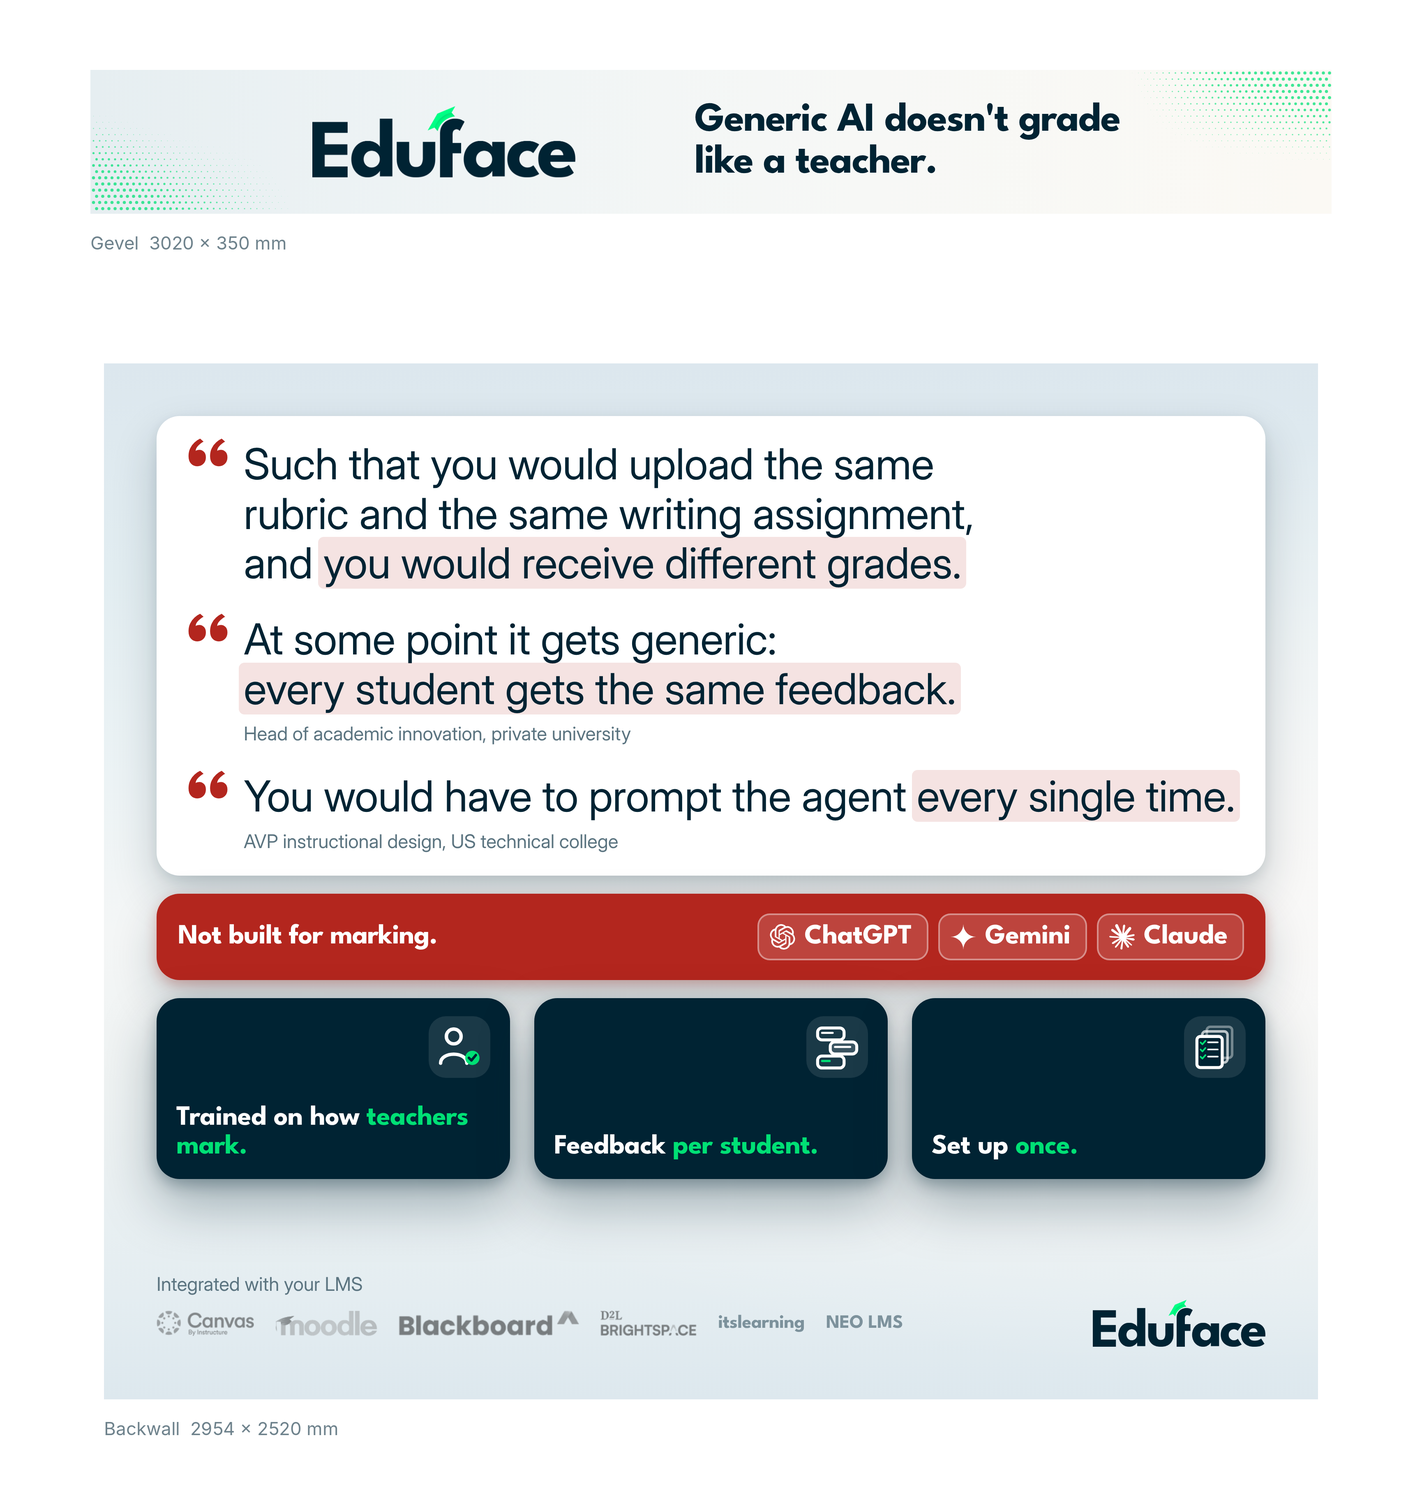
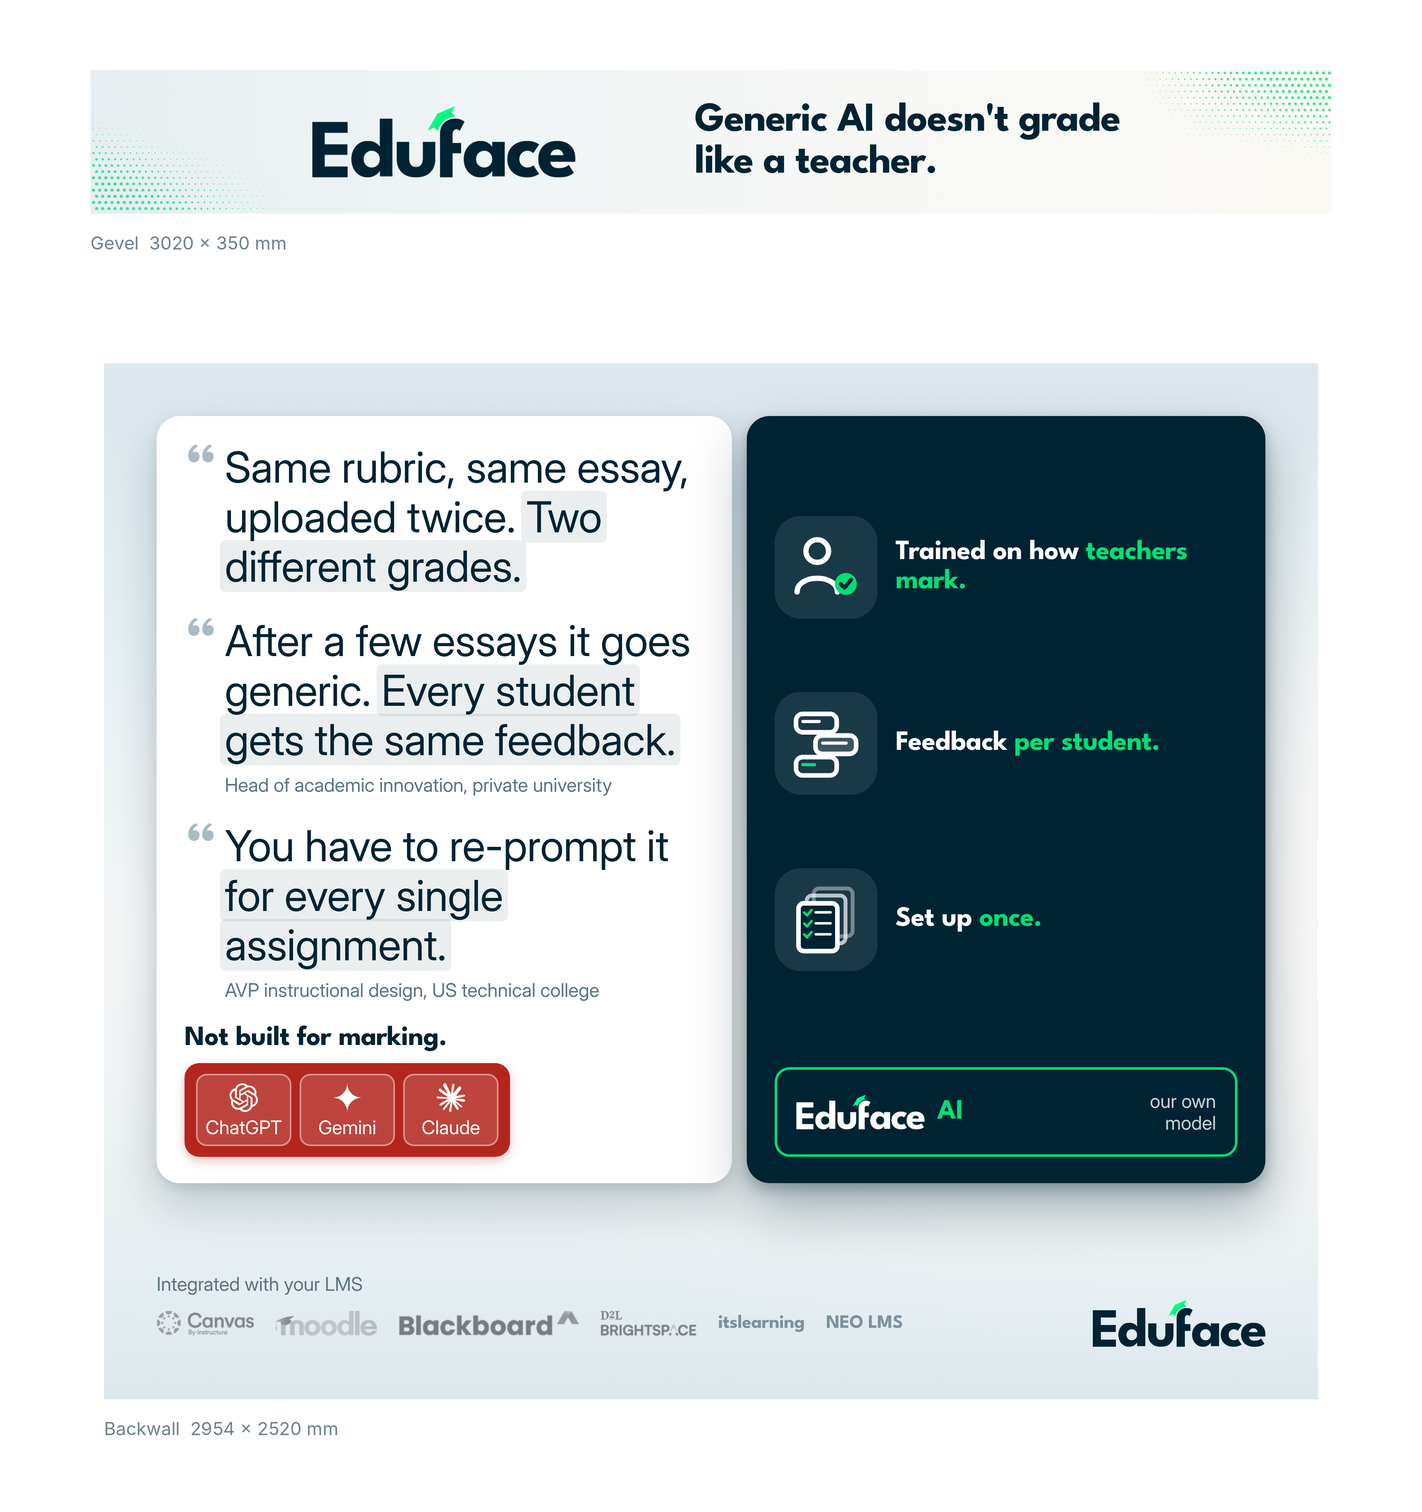
Backwall: links quotes, rechts Eduface, rood beperkt tot kleine tool-box, Eduface AI-strip
Claude-Session: https://claude.ai/code/session_011t24oRcD5DFuXzKigdVhtb

Changed region(s): [[0.0936, 0.248, 0.9052, 0.8059]]

diff --git a/creatives/beurs-backwall/backwall.html b/creatives/beurs-backwall/backwall.html
@@ -4,7 +4,8 @@
 <meta charset="utf-8">
 <title>Beurs backwall</title>
 <style>
-  /* Canvas: 1 px = 1 mm. Wand is 2954 x 2520 mm. Eerst focus op de quotes; de rest staat compact eronder. */
+  /* Canvas: 1 px = 1 mm. Wand is 2954 x 2520 mm. De kop staat op de gevel (facade.html), de wand heeft alleen quotes en Eduface.
+     Lettersysteem, drie maten: L 104 Inter (quotes) / M 68 League Spartan (koppen) / S 46 Inter (bronnen, labels). */
   @font-face { font-family: "League Spartan"; font-weight: 700; src: url("../../Design/Merk/fonts/LeagueSpartan-Bold.ttf"); }
   @font-face { font-family: "Inter"; font-weight: 400; src: url("../../Design/Merk/fonts/Inter-Regular.ttf"); }
   :root { --w: 2954px; --h: 2520px; --navy: #002333; --gd: #007b54; --g: #00e075; --i7: #2c4a57; --i5: #5b7480; --i3: #a9bcc4; --i2: #cdd9de; --i50: #f3f7f8; --red: #b3261e; }
@@ -16,37 +17,38 @@
       radial-gradient(ellipse 80% 45% at 90% 52%, #f9f8f7 0%, rgba(249,248,247,0) 100%),
       linear-gradient(180deg, #dce7ee 0%, #e2edf1 20%, #ecf3f5 40%, #f4f6f6 55%, #eff3f3 70%, #e4edf1 90%, #dde8ee 100%);
   }
-  .abs { position: absolute; }
   .logo { position: absolute; right: 128px; bottom: 128px; width: 420px; height: auto; }
 
-  .h1 { position: absolute; left: 128px; top: 90px; font: 700 152px/.98 "League Spartan"; letter-spacing: -.025em; color: var(--navy); white-space: nowrap; }
-  .h1 em { font-style: normal; color: var(--gd); }
+  .row { position: absolute; left: 128px; top: 128px; width: 2698px; display: flex; gap: 36px; align-items: stretch; }
 
-  /* ---- QUOTES: een kaart per bron. Links het tool, rechts de quote(s) groot. ---- */
-  .stack { position: absolute; left: 128px; top: 128px; width: 2698px; display: flex; flex-direction: column; gap: 44px; }
-  .advrow { display: flex; gap: 59px; }
-  .qg { position: relative; width: 100%; background: #fff; border-radius: 56px; padding: 56px 64px;
-    box-shadow: 0 10px 28px rgba(0,35,51,.10), 0 50px 110px rgba(0,35,51,.20); }
-  .qs { display: flex; flex-direction: column; gap: 64px; }
-  .qone { display: flex; gap: 28px; align-items: flex-start; }
-  .qm { font: 700 230px/.78 "League Spartan"; color: var(--red); width: 120px; flex: none; margin-top: 10px; }
-  .qt { font: 400 104px/1.16 Inter; color: var(--navy); letter-spacing: -.005em; text-wrap: balance; }
-  .qt mark { white-space: nowrap; background: rgba(179,38,30,.13); color: inherit; padding: 0 12px; margin: 0 -12px; border-radius: 14px; -webkit-box-decoration-break: clone; box-decoration-break: clone; }
+  /* links: quotes. Rood alleen in het kleine vlak rond de drie tools. */
+  .q { width: 1400px; background: #fff; border-radius: 56px; padding: 64px 68px 64px; display: flex; flex-direction: column; justify-content: space-between; gap: 56px;
+       box-shadow: 0 10px 28px rgba(0,35,51,.10), 0 50px 110px rgba(0,35,51,.20); }
+  .qs { display: flex; flex-direction: column; gap: 60px; }
+  .qone { display: flex; gap: 22px; align-items: flex-start; }
+  .qm { font: 700 150px/.8 "League Spartan"; color: var(--i3); width: 76px; flex: none; margin-top: 10px; }
+  .qt { font: 400 104px/1.16 Inter; color: var(--navy); letter-spacing: -.005em; }
+  .qt mark { background: rgba(0,35,51,.08); color: inherit; padding: 0 12px; margin: 0 -12px; border-radius: 14px; -webkit-box-decoration-break: clone; box-decoration-break: clone; }
   .who { font: 400 46px/1.2 Inter; color: var(--i5); margin-top: 22px; }
 
-  /* ---- rest, compact ---- */
-  .band { position: relative; width: 100%; height: 210px; border-radius: 56px; background: var(--red); padding: 0 52px; display: flex; align-items: center; justify-content: space-between;
-    box-shadow: 0 12px 30px rgba(179,38,30,.28), 0 50px 110px rgba(0,35,51,.22); }
-  .band .t { font: 700 68px/1 "League Spartan"; letter-spacing: -.015em; color: #fff; }
-  .rl { display: flex; gap: 24px; }
-  .rl div { height: 114px; padding: 0 40px 0 30px; border-radius: 30px; background: rgba(255,255,255,.14); box-shadow: inset 0 0 0 4px rgba(255,255,255,.4); display: flex; align-items: center; gap: 22px; font: 700 68px/1 "League Spartan"; letter-spacing: -.01em; color: #fff; white-space: nowrap; }
-  .rl img { width: 62px; height: 62px; filter: brightness(0) invert(1); }
+  .tools .lab { font: 700 68px/1 "League Spartan"; letter-spacing: -.01em; color: var(--navy); margin-bottom: 26px; }
+  .redbox { display: inline-flex; gap: 20px; background: var(--red); border-radius: 36px; padding: 26px 28px; box-shadow: 0 10px 24px rgba(179,38,30,.28); }
+  .tl { width: 232px; height: 176px; border-radius: 26px; background: rgba(255,255,255,.14); box-shadow: inset 0 0 0 4px rgba(255,255,255,.42);
+        display: flex; flex-direction: column; align-items: center; justify-content: center; gap: 14px; font: 400 46px/1 Inter; color: #fff; }
+  .tl img { width: 70px; height: 70px; filter: brightness(0) invert(1); }
 
-  .adv { position: relative; flex: none; width: 860px; height: 440px; padding: 44px 48px; border-radius: 56px; background: var(--navy); color: #fff;
-    box-shadow: 0 14px 34px rgba(0,35,51,.28), 0 60px 130px rgba(0,35,51,.34); display: flex; flex-direction: column; justify-content: space-between; }
-  .adv .it { align-self: flex-end; width: 150px; height: 150px; border-radius: 42px; background: rgba(255,255,255,.1); display: flex; align-items: center; justify-content: center; }
-  .adv .a1 { font: 700 68px/1.02 "League Spartan"; letter-spacing: -.01em; }
-  .adv .a1 span { color: var(--g); }
+  /* rechts: Eduface */
+  .e { width: 1262px; background: var(--navy); color: #fff; border-radius: 56px; padding: 64px 68px; display: flex; flex-direction: column; justify-content: space-between; gap: 56px;
+       box-shadow: 0 14px 34px rgba(0,35,51,.28), 0 60px 130px rgba(0,35,51,.34); }
+  .es { flex: 1; display: flex; flex-direction: column; justify-content: space-evenly; }
+  .er { display: flex; align-items: center; gap: 44px; }
+  .it { flex: none; width: 250px; height: 250px; border-radius: 64px; background: rgba(255,255,255,.1); display: flex; align-items: center; justify-content: center; }
+  .eh { font: 700 68px/1.04 "League Spartan"; letter-spacing: -.01em; }
+  .eh span { color: var(--g); }
+  .own { height: 218px; border-radius: 36px; box-shadow: inset 0 0 0 6px var(--g); display: flex; align-items: center; gap: 30px; padding: 0 52px; }
+  .own img { height: 86px; width: auto; }
+  .own .ai { font: 700 68px/1 "League Spartan"; color: var(--g); letter-spacing: -.01em; }
+  .own .t2 { margin-left: auto; font: 400 46px/1.15 Inter; color: rgba(255,255,255,.8); text-align: right; }
 
   .lms { position: absolute; left: 128px; top: 2278px; height: 114px; display: flex; align-items: center; gap: 52px; }
   .lms img { height: 62px; width: auto; filter: grayscale(1) contrast(.9); opacity: .5; }
@@ -63,30 +65,27 @@
 <script>
 const N='#002333', G='#00e075', W='#fff';
 const L=(f)=>`assets/logos/${f}.svg`;
-const sv=(inner,s=124)=>`<svg width="${s}" height="${s}" viewBox="0 0 400 400">${inner}</svg>`;
+const sv=(inner,s=172)=>`<svg width="${s}" height="${s}" viewBox="0 0 400 400">${inner}</svg>`;
 
-/* Quotes: bron Eduface case study 25-11-2026, licht bewerkt voor correct Engels. Functie anoniem. */
-const platformIc=`<svg width="66" height="66" viewBox="0 0 46 46"><rect x="4" y="4" width="16" height="16" rx="4" fill="#2c4a57"/><rect x="26" y="4" width="16" height="16" rx="4" fill="#2c4a57" opacity=".55"/><rect x="4" y="26" width="16" height="16" rx="4" fill="#2c4a57" opacity=".55"/><rect x="26" y="26" width="16" height="16" rx="4" fill="#2c4a57"/></svg>`;
-const q=(t,w)=>`<div class="qone"><div class="qm">\u201C</div><div><div class="qt">${t}</div>${w?`<div class="who">${w}</div>`:''}</div></div>`;
+/* Quotes: formulering van Dante, 25-11-2026. Bron van quote 2 en 3 staat in de case study; de herschreven zinnen zijn nog niet aan die personen voorgelegd (V15). Quote 1: bron onbekend (V17). */
+const q=(t,w)=>`<div class="qone"><div class="qm">“</div><div><div class="qt">${t}</div>${w?`<div class="who">${w}</div>`:''}</div></div>`;
 const R1='Head of academic innovation, private university', R2='AVP instructional design, US technical college';
-const A=`<div class="qg"><div class="qs">`+
-  q('Such that you would upload the same rubric and the same writing assignment, and <mark>you would receive different grades.</mark>', '')+
-  q('At some point it gets generic: <mark>every student gets the same feedback.</mark>', R1)+
-  q('You would have to prompt the agent <mark>every single time.</mark>', R2)+`</div></div>`;
-const B='';
+const tool=(img,name)=>`<div class="tl"><img src="${L(img)}">${name}</div>`;
+const left=`<div class="q"><div class="qs">`+
+  q('Same rubric, same essay, uploaded twice. <mark>Two different grades.</mark>','')+
+  q('After a few essays it goes generic. <mark>Every student gets the same feedback.</mark>',R1)+
+  q('You have to re-prompt it <mark>for every single assignment.</mark>',R2)+
+  `</div><div class="tools"><div class="lab">Not built for marking.</div><div class="redbox">${tool('openai','ChatGPT')}${tool('googlegemini','Gemini')}${tool('claude','Claude')}</div></div></div>`;
 
-/* rest */
-const band=`<div class="band"><div class="t">Not built for marking.</div><div class="rl"><div><img src="${L('openai')}">ChatGPT</div><div><img src="${L('googlegemini')}">Gemini</div><div><img src="${L('claude')}">Claude</div></div></div>`;
 const icTeacher=sv(`<circle cx="150" cy="108" r="64" fill="none" stroke="${W}" stroke-width="30"/><path d="M36,340 C36,236 264,236 264,340" fill="none" stroke="${W}" stroke-width="30" stroke-linecap="round"/><circle cx="312" cy="294" r="62" fill="${G}"/><polyline points="282,294 304,316 342,270" fill="none" stroke="${N}" stroke-width="22" stroke-linecap="round" stroke-linejoin="round"/>`);
 const icBubbles=sv(`<rect x="30" y="34" width="230" height="104" rx="38" fill="none" stroke="${W}" stroke-width="26"/><rect x="60" y="68" width="110" height="18" rx="9" fill="${W}"/><rect x="140" y="156" width="230" height="104" rx="38" fill="rgba(255,255,255,.14)" stroke="${W}" stroke-width="26"/><rect x="172" y="190" width="150" height="18" rx="9" fill="${W}"/><rect x="30" y="278" width="230" height="104" rx="38" fill="none" stroke="${W}" stroke-width="26"/><rect x="60" y="312" width="84" height="18" rx="9" fill="${G}"/>`);
 const icSheets=sv(`<rect x="130" y="24" width="220" height="270" rx="30" fill="none" stroke="${W}" stroke-width="22" opacity=".4"/><rect x="90" y="64" width="220" height="270" rx="30" fill="none" stroke="${W}" stroke-width="22" opacity=".7"/><rect x="44" y="108" width="220" height="270" rx="30" fill="${N}" stroke="${W}" stroke-width="26"/>${[160,222,284].map(y=>`<polyline points="76,${y} 92,${y+16} 118,${y-14}" fill="none" stroke="${G}" stroke-width="14" stroke-linecap="round" stroke-linejoin="round"/><rect x="134" y="${y-8}" width="98" height="14" rx="7" fill="${W}"/>`).join('')}`);
-const X=[128,1047,1966];
-const ADV=[{ic:icTeacher,h:'Trained on how <span>teachers mark.</span>'},{ic:icBubbles,h:'Feedback <span>per student.</span>'},{ic:icSheets,h:'Set up <span>once.</span>'}];
-const adv=ADV.map((r,i)=>`<div class="adv"><div class="it">${r.ic.replace('width="124" height="124"','width="112" height="112"')}</div><div class="a1">${r.h}</div></div>`).join('');
-const lms=`<div class="lms"><div class="lab">Integrated with your LMS</div><img src="assets/logos/lms-canvas.png"><img src="assets/logos/lms-moodle.png"><img src="assets/logos/lms-blackboard.png"><img src="assets/logos/lms-brightspace.png"><div class="wm">itslearning</div><div class="wm">NEO LMS</div></div>`;
+const ER=[{ic:icTeacher,h:'Trained on how <span>teachers mark.</span>'},{ic:icBubbles,h:'Feedback <span>per student.</span>'},{ic:icSheets,h:'Set up <span>once.</span>'}];
+const right=`<div class="e"><div class="es">`+ER.map(r=>`<div class="er"><div class="it">${r.ic}</div><div class="eh">${r.h}</div></div>`).join('')+
+  `</div><div class="own"><img src="assets/logos/eduface-white.png"><div class="ai">AI</div><div class="t2">our own<br>model</div></div></div>`;
 
-document.getElementById('layer-content').innerHTML =
- `<div class="stack">${A}${B}${band}<div class="advrow">${adv}</div></div>${lms}`;
+const lms=`<div class="lms"><div class="lab">Integrated with your LMS</div><img src="assets/logos/lms-canvas.png"><img src="assets/logos/lms-moodle.png"><img src="assets/logos/lms-blackboard.png"><img src="assets/logos/lms-brightspace.png"><div class="wm">itslearning</div><div class="wm">NEO LMS</div></div>`;
+document.getElementById('layer-content').innerHTML = `<div class="row">${left}${right}</div>${lms}`;
 </script>
 </body>
 </html>

diff --git a/creatives/beurs-backwall/backwall-quotes-boven-2026-11-25.html b/creatives/beurs-backwall/backwall-quotes-boven-2026-11-25.html
@@ -1,0 +1,92 @@
+<!doctype html>
+<html lang="en">
+<head>
+<meta charset="utf-8">
+<title>Beurs backwall</title>
+<style>
+  /* Canvas: 1 px = 1 mm. Wand is 2954 x 2520 mm. Eerst focus op de quotes; de rest staat compact eronder. */
+  @font-face { font-family: "League Spartan"; font-weight: 700; src: url("../../Design/Merk/fonts/LeagueSpartan-Bold.ttf"); }
+  @font-face { font-family: "Inter"; font-weight: 400; src: url("../../Design/Merk/fonts/Inter-Regular.ttf"); }
+  :root { --w: 2954px; --h: 2520px; --navy: #002333; --gd: #007b54; --g: #00e075; --i7: #2c4a57; --i5: #5b7480; --i3: #a9bcc4; --i2: #cdd9de; --i50: #f3f7f8; --red: #b3261e; }
+  * { margin: 0; box-sizing: border-box; }
+  html, body { width: var(--w); height: var(--h); }
+  .wall {
+    position: relative; width: var(--w); height: var(--h); overflow: hidden; color: var(--navy);
+    background:
+      radial-gradient(ellipse 80% 45% at 90% 52%, #f9f8f7 0%, rgba(249,248,247,0) 100%),
+      linear-gradient(180deg, #dce7ee 0%, #e2edf1 20%, #ecf3f5 40%, #f4f6f6 55%, #eff3f3 70%, #e4edf1 90%, #dde8ee 100%);
+  }
+  .abs { position: absolute; }
+  .logo { position: absolute; right: 128px; bottom: 128px; width: 420px; height: auto; }
+
+  .h1 { position: absolute; left: 128px; top: 90px; font: 700 152px/.98 "League Spartan"; letter-spacing: -.025em; color: var(--navy); white-space: nowrap; }
+  .h1 em { font-style: normal; color: var(--gd); }
+
+  /* ---- QUOTES: een kaart per bron. Links het tool, rechts de quote(s) groot. ---- */
+  .stack { position: absolute; left: 128px; top: 128px; width: 2698px; display: flex; flex-direction: column; gap: 44px; }
+  .advrow { display: flex; gap: 59px; }
+  .qg { position: relative; width: 100%; background: #fff; border-radius: 56px; padding: 56px 64px;
+    box-shadow: 0 10px 28px rgba(0,35,51,.10), 0 50px 110px rgba(0,35,51,.20); }
+  .qs { display: flex; flex-direction: column; gap: 64px; }
+  .qone { display: flex; gap: 28px; align-items: flex-start; }
+  .qm { font: 700 230px/.78 "League Spartan"; color: var(--red); width: 120px; flex: none; margin-top: 10px; }
+  .qt { font: 400 104px/1.16 Inter; color: var(--navy); letter-spacing: -.005em; text-wrap: balance; }
+  .qt mark { white-space: nowrap; background: rgba(179,38,30,.13); color: inherit; padding: 0 12px; margin: 0 -12px; border-radius: 14px; -webkit-box-decoration-break: clone; box-decoration-break: clone; }
+  .who { font: 400 46px/1.2 Inter; color: var(--i5); margin-top: 22px; }
+
+  /* ---- rest, compact ---- */
+  .band { position: relative; width: 100%; height: 210px; border-radius: 56px; background: var(--red); padding: 0 52px; display: flex; align-items: center; justify-content: space-between;
+    box-shadow: 0 12px 30px rgba(179,38,30,.28), 0 50px 110px rgba(0,35,51,.22); }
+  .band .t { font: 700 68px/1 "League Spartan"; letter-spacing: -.015em; color: #fff; }
+  .rl { display: flex; gap: 24px; }
+  .rl div { height: 114px; padding: 0 40px 0 30px; border-radius: 30px; background: rgba(255,255,255,.14); box-shadow: inset 0 0 0 4px rgba(255,255,255,.4); display: flex; align-items: center; gap: 22px; font: 700 68px/1 "League Spartan"; letter-spacing: -.01em; color: #fff; white-space: nowrap; }
+  .rl img { width: 62px; height: 62px; filter: brightness(0) invert(1); }
+
+  .adv { position: relative; flex: none; width: 860px; height: 440px; padding: 44px 48px; border-radius: 56px; background: var(--navy); color: #fff;
+    box-shadow: 0 14px 34px rgba(0,35,51,.28), 0 60px 130px rgba(0,35,51,.34); display: flex; flex-direction: column; justify-content: space-between; }
+  .adv .it { align-self: flex-end; width: 150px; height: 150px; border-radius: 42px; background: rgba(255,255,255,.1); display: flex; align-items: center; justify-content: center; }
+  .adv .a1 { font: 700 68px/1.02 "League Spartan"; letter-spacing: -.01em; }
+  .adv .a1 span { color: var(--g); }
+
+  .lms { position: absolute; left: 128px; top: 2278px; height: 114px; display: flex; align-items: center; gap: 52px; }
+  .lms img { height: 62px; width: auto; filter: grayscale(1) contrast(.9); opacity: .5; }
+  .lms .wm { font: 700 46px/1 "League Spartan"; letter-spacing: -.01em; color: var(--i5); opacity: .75; white-space: nowrap; }
+  .lms .lab { position: absolute; left: 0; top: -62px; font: 400 46px/1 Inter; color: var(--i5); white-space: nowrap; }
+</style>
+</head>
+<body>
+  <div class="wall" id="wall">
+    <div id="layer-content"></div>
+    <img class="logo" src="../../Design/Merk/logos/logo_navy.png" alt="Eduface">
+  </div>
+
+<script>
+const N='#002333', G='#00e075', W='#fff';
+const L=(f)=>`assets/logos/${f}.svg`;
+const sv=(inner,s=124)=>`<svg width="${s}" height="${s}" viewBox="0 0 400 400">${inner}</svg>`;
+
+/* Quotes: bron Eduface case study 25-11-2026, licht bewerkt voor correct Engels. Functie anoniem. */
+const platformIc=`<svg width="66" height="66" viewBox="0 0 46 46"><rect x="4" y="4" width="16" height="16" rx="4" fill="#2c4a57"/><rect x="26" y="4" width="16" height="16" rx="4" fill="#2c4a57" opacity=".55"/><rect x="4" y="26" width="16" height="16" rx="4" fill="#2c4a57" opacity=".55"/><rect x="26" y="26" width="16" height="16" rx="4" fill="#2c4a57"/></svg>`;
+const q=(t,w)=>`<div class="qone"><div class="qm">\u201C</div><div><div class="qt">${t}</div>${w?`<div class="who">${w}</div>`:''}</div></div>`;
+const R1='Head of academic innovation, private university', R2='AVP instructional design, US technical college';
+const A=`<div class="qg"><div class="qs">`+
+  q('Such that you would upload the same rubric and the same writing assignment, and <mark>you would receive different grades.</mark>', '')+
+  q('At some point it gets generic: <mark>every student gets the same feedback.</mark>', R1)+
+  q('You would have to prompt the agent <mark>every single time.</mark>', R2)+`</div></div>`;
+const B='';
+
+/* rest */
+const band=`<div class="band"><div class="t">Not built for marking.</div><div class="rl"><div><img src="${L('openai')}">ChatGPT</div><div><img src="${L('googlegemini')}">Gemini</div><div><img src="${L('claude')}">Claude</div></div></div>`;
+const icTeacher=sv(`<circle cx="150" cy="108" r="64" fill="none" stroke="${W}" stroke-width="30"/><path d="M36,340 C36,236 264,236 264,340" fill="none" stroke="${W}" stroke-width="30" stroke-linecap="round"/><circle cx="312" cy="294" r="62" fill="${G}"/><polyline points="282,294 304,316 342,270" fill="none" stroke="${N}" stroke-width="22" stroke-linecap="round" stroke-linejoin="round"/>`);
+const icBubbles=sv(`<rect x="30" y="34" width="230" height="104" rx="38" fill="none" stroke="${W}" stroke-width="26"/><rect x="60" y="68" width="110" height="18" rx="9" fill="${W}"/><rect x="140" y="156" width="230" height="104" rx="38" fill="rgba(255,255,255,.14)" stroke="${W}" stroke-width="26"/><rect x="172" y="190" width="150" height="18" rx="9" fill="${W}"/><rect x="30" y="278" width="230" height="104" rx="38" fill="none" stroke="${W}" stroke-width="26"/><rect x="60" y="312" width="84" height="18" rx="9" fill="${G}"/>`);
+const icSheets=sv(`<rect x="130" y="24" width="220" height="270" rx="30" fill="none" stroke="${W}" stroke-width="22" opacity=".4"/><rect x="90" y="64" width="220" height="270" rx="30" fill="none" stroke="${W}" stroke-width="22" opacity=".7"/><rect x="44" y="108" width="220" height="270" rx="30" fill="${N}" stroke="${W}" stroke-width="26"/>${[160,222,284].map(y=>`<polyline points="76,${y} 92,${y+16} 118,${y-14}" fill="none" stroke="${G}" stroke-width="14" stroke-linecap="round" stroke-linejoin="round"/><rect x="134" y="${y-8}" width="98" height="14" rx="7" fill="${W}"/>`).join('')}`);
+const X=[128,1047,1966];
+const ADV=[{ic:icTeacher,h:'Trained on how <span>teachers mark.</span>'},{ic:icBubbles,h:'Feedback <span>per student.</span>'},{ic:icSheets,h:'Set up <span>once.</span>'}];
+const adv=ADV.map((r,i)=>`<div class="adv"><div class="it">${r.ic.replace('width="124" height="124"','width="112" height="112"')}</div><div class="a1">${r.h}</div></div>`).join('');
+const lms=`<div class="lms"><div class="lab">Integrated with your LMS</div><img src="assets/logos/lms-canvas.png"><img src="assets/logos/lms-moodle.png"><img src="assets/logos/lms-blackboard.png"><img src="assets/logos/lms-brightspace.png"><div class="wm">itslearning</div><div class="wm">NEO LMS</div></div>`;
+
+document.getElementById('layer-content').innerHTML =
+ `<div class="stack">${A}${B}${band}<div class="advrow">${adv}</div></div>${lms}`;
+</script>
+</body>
+</html>
